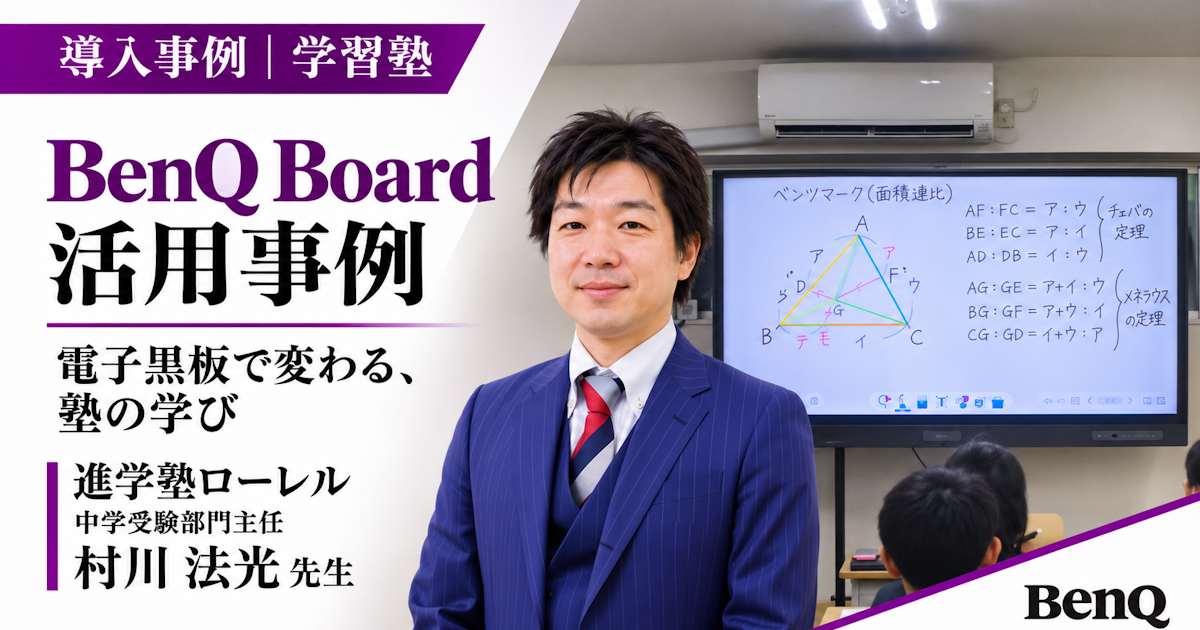
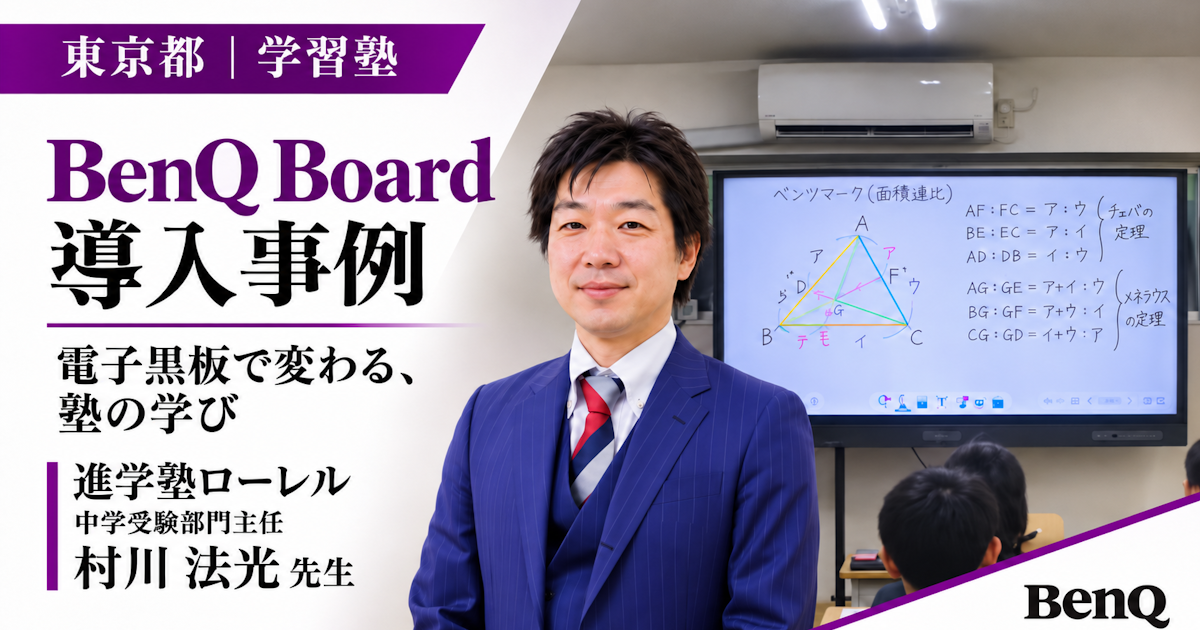
Update microCMS content

diff --git a/article/index.html b/article/index.html
@@ -80,7 +80,7 @@
 
       <article class="kb-art-card" data-cats="導入事例">
         <a href="/columns/benQboard-laurel-interview/">
-          <figure><img src="https://images.microcms-assets.io/assets/55c151aecffc4472b4f77af5a6755e38/f52d787875274364b55c02395eb95ea3/%E9%9B%BB%E5%AD%90%E9%BB%92%E6%9D%BF%E3%81%A7%E5%A4%89%E3%82%8F%E3%82%8B%E5%A1%BE%E3%81%AE%E5%AD%A6%E3%81%B3.png?fit=crop&w=480&h=270&q=80" alt="学習塾の電子黒板BenQ Board導入事例｜東京都 進学塾ローレル" loading="lazy" decoding="async"></figure>
+          <figure><img src="https://images.microcms-assets.io/assets/55c151aecffc4472b4f77af5a6755e38/202498e475334a7b892f4080712da33e/%E6%9D%B1%E4%BA%AC%E9%83%BD%E3%81%AE%E5%AD%A6%E7%BF%92%E5%A1%BE%E5%B0%8E%E5%85%A5%E4%BA%8B%E4%BE%8B.png?fit=crop&w=480&h=270&q=80" alt="学習塾の電子黒板BenQ Board導入事例｜東京都 進学塾ローレル" loading="lazy" decoding="async"></figure>
           <div class="kb-art-card__body">
             <div class="kb-art-card__meta"><span class="cat">導入事例</span><time>2026.11.03</time></div>
             <h2>学習塾の電子黒板BenQ Board導入事例｜東京都 進学塾ローレル</h2>
